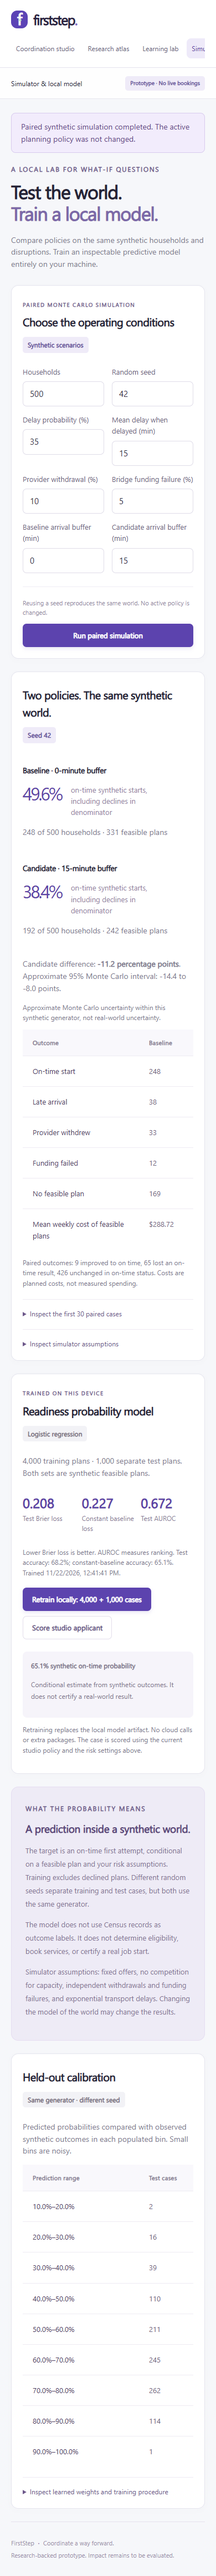
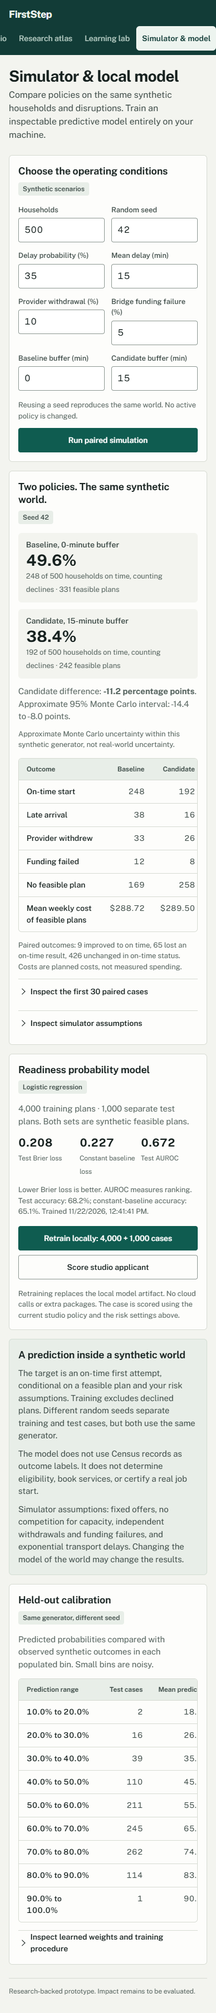
Document the hardening pass and refresh screenshots
Record what was reproduced and verified, explain --reset-demo and the stricter
learning gate, credit the font license, and replace screenshots of the old UI.

Changed region(s): [[0.0, 0.0, 1.0, 0.9983], [0.8615, 0.8424, 0.9231, 0.9359]]

diff --git a/README.md b/README.md
@@ -16,12 +16,14 @@ python -m firststep.server
 
 Open **http://127.0.0.1:8080**. Use `--port 8090` to select another port. Run commands from the repository root.
 
+Demo state persists between runs. To repeat the demo from a clean start, run `python -m firststep.server --reset-demo`, which clears saved plans, events, simulation reports, and the learned policy. A locally retrained model is kept. For a `firststep` command, install from the checkout with `pip install -e .`.
+
 ## The three-minute demo
 
 1. In **Coordination studio**, keep the synthetic applicant's defaults and select **Find a coordinated plan**. The planner checks six childcare/transport combinations and selects the lowest-cost feasible bundle: $260 per week.
 2. Check the simulation-consent box and confirm the demo arrangement.
 3. Record a **15-minute transport delay**. No external service is contacted.
-4. In **Learning lab**, evaluate the proposed scheduling change. The five-case stress suite favors a 15-minute buffer, but a broader 500-household paired check exposes lost access. The new gate retains the current policy when the candidate reduces total on-time starts or increases late arrivals.
+4. In **Learning lab**, evaluate the proposed scheduling change. The five-case stress suite favors a 15-minute buffer, but a broader 500-household paired check exposes lost access. The gate retains the current policy when the candidate reduces total on-time starts, increases late arrivals, or declines more of the five stress scenarios. When several delays were observed, it tests the largest one that can pass, so one extreme delay cannot block a safe improvement.
 5. Open **Simulator & model** and compare 0-minute and 15-minute buffers across hundreds of households. Inspect late arrivals, declined plans, costs, paired changes, and the actual trained model's conditional probabilities.
 6. Create and confirm another studio plan, then **simulate a provider withdrawal**. The engine excludes the withdrawn offer, checks a replacement, and requires fresh consent. If no valid replacement fits the budget, it reports the blockers.
 
@@ -38,7 +40,8 @@ These are synthetic results, not measured employment or social-impact outcomes. 
 - Optional full SQLite research database with tract and block-group search.
 - Reproducible paired simulation with configurable transport delays, provider withdrawals, and funding failures.
 - Locally trained logistic regression, held-out evaluation, calibration bins, inspectable coefficients, and saved weights.
-- Responsive, keyboard-accessible web interface; no external font or script requests.
+- Responsive, keyboard-accessible web interface with a self-hosted font and no external font or script requests.
+- Research search that ignores extra spaces and accents, so `Anasco` finds Añasco Municipio.
 
 ## Real data included
 
@@ -130,4 +133,6 @@ Tests cover planner constraints, impossible cases, withdrawal recovery, consent 
 - **U.S. Department of Labor Women's Bureau:** [National Database of Childcare Prices](https://www.dol.gov/agencies/wb/topics/featured-childcare), 2008–2022. [Technical report](https://www.dol.gov/sites/dolgov/files/WB/National-Database-of-Childcare-Prices-Technical-Report.pdf) explains units, missingness, and estimation.
 - **California Department of Social Services:** [Community Care Licensing Facilities](https://publish.data.ca.gov/dataset/community-care-licensing-facilities). The catalog identifies Creative Commons Attribution licensing. The bundled center CSV retains original source fields. UI filtering, SQLite conversion, and derived research views are project modifications. No government endorsement is implied.
 
-Application code is MIT licensed. Source datasets retain their own terms and attribution requirements; the application license does not replace them.
+- **Public Sans:** the interface typeface is self-hosted from `@fontsource-variable/public-sans` under the SIL Open Font License. See `static/public-sans-LICENSE.txt`.
+
+Application code is MIT licensed. Source datasets and the font retain their own terms and attribution requirements; the application license does not replace them.

diff --git a/docs/validation.md b/docs/validation.md
@@ -20,3 +20,14 @@ The model checkpoint was actually trained locally on 4,000 feasible synthetic pl
 Browser checks covered paired simulation, local retraining, probability scoring, refusal outside training ranges, persisted simulation reports, and mobile layout without JavaScript exceptions or document-level horizontal overflow.
 
 The larger generator exposed a failure of the original five-case evaluation: a stricter buffer could lower late arrivals while reducing total on-time starts by declining more households. The Learning lab now adds a fixed 500-household paired check before adopting a proposal. It rejects that broader harm even when the five-case suite passes. The stored 1,000-case example is a demonstration report, separate from the fixed adoption check, and is not a real-world impact study.
+
+## Interface and hardening pass
+
+Each fix below was reproduced first, then checked again in headless Chrome against the full research database.
+
+- The skip link no longer switches pages, and the missing-consent error stays visible where the person is working.
+- A slow search can no longer overwrite a newer one. Missing income shows as "Unavailable" instead of "$Unavailable" (De Baca County, New Mexico).
+- Text below WCAG AA contrast went from 93 elements across four screens to 0 across all five. This automated check covers rendered text in the default state of each screen. No screen-reader testing was done.
+- No document-level horizontal overflow at 320, 390, 768, or 1024 px.
+- The learning gate no longer adopts a buffer that declines more stress scenarios, and one extreme delay no longer blocks a safe buffer.
+- Search treats `%` and `_` literally and ignores extra spaces and accents. Repeat searches of the bundled provider file dropped from about 159 ms to about 1 ms, at a cost of about 21 MB of memory after the first search.
